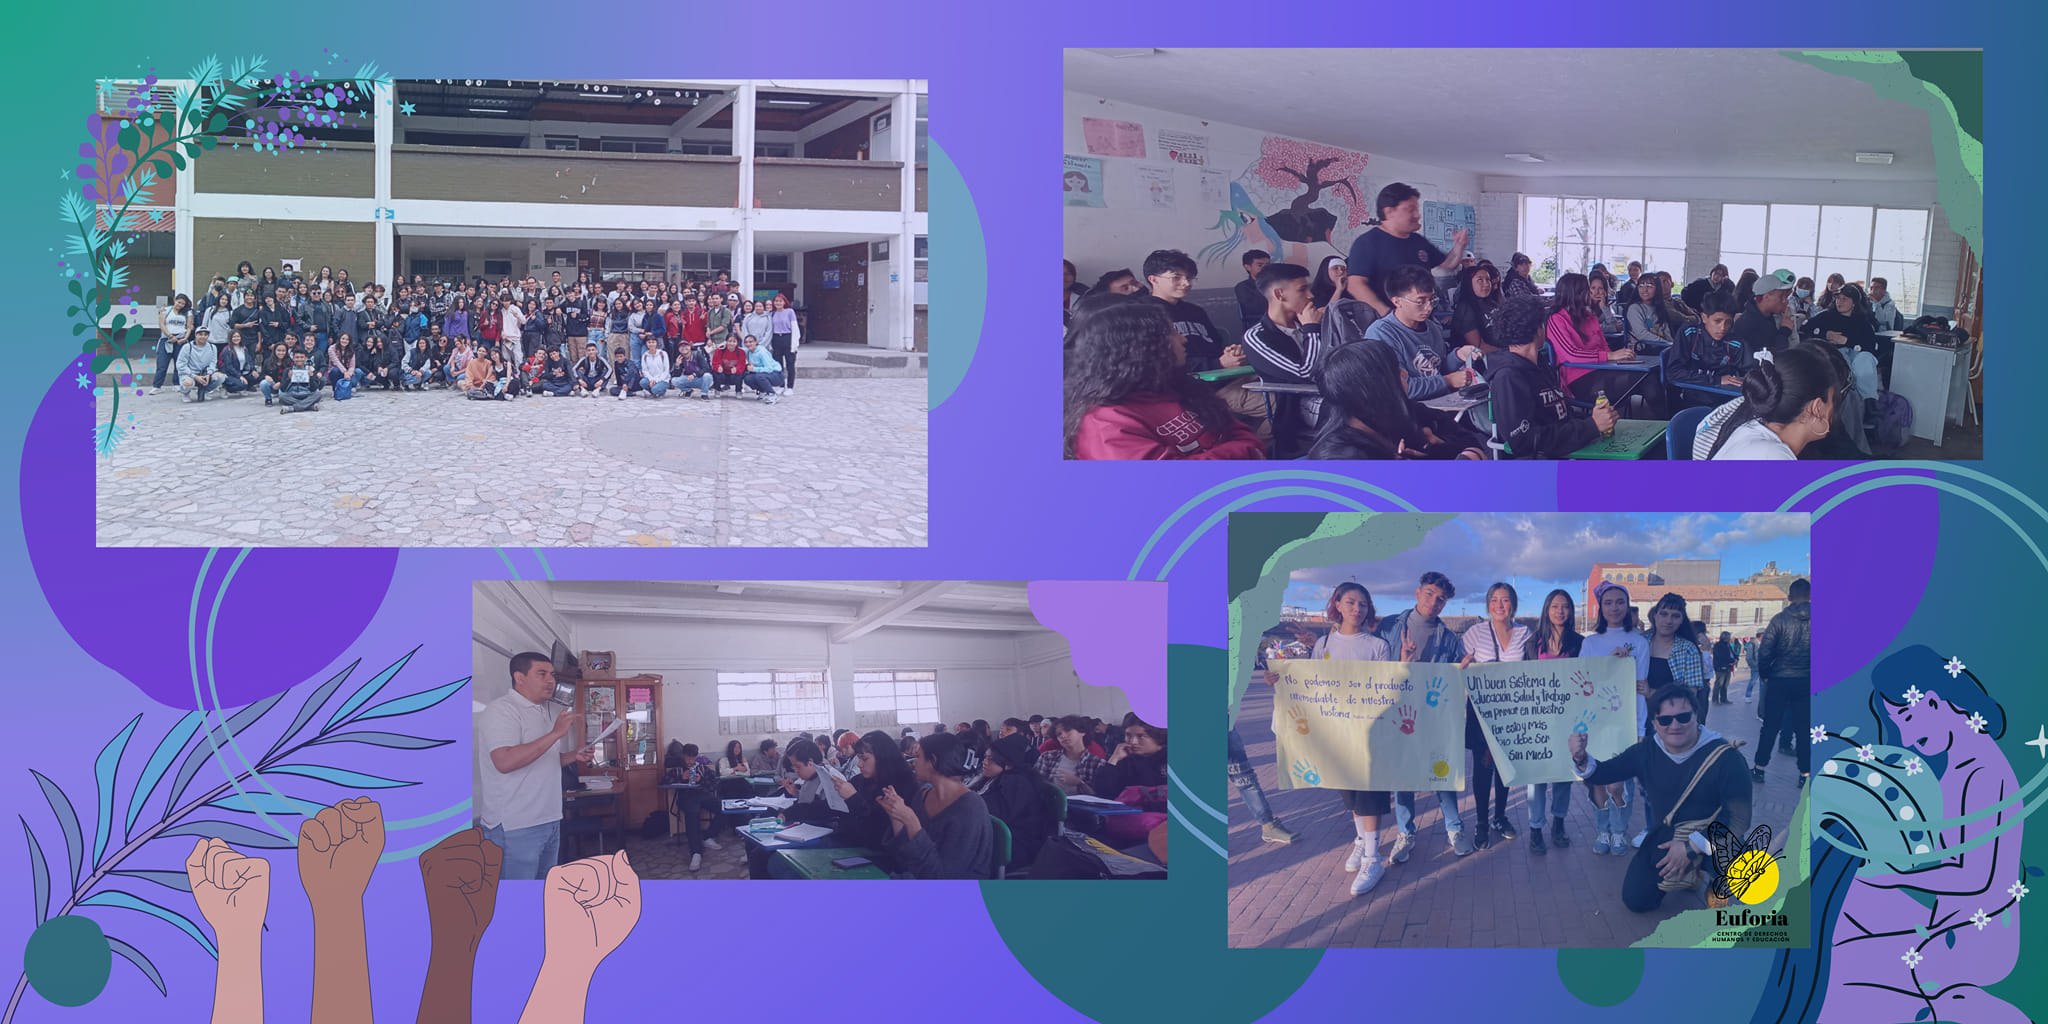
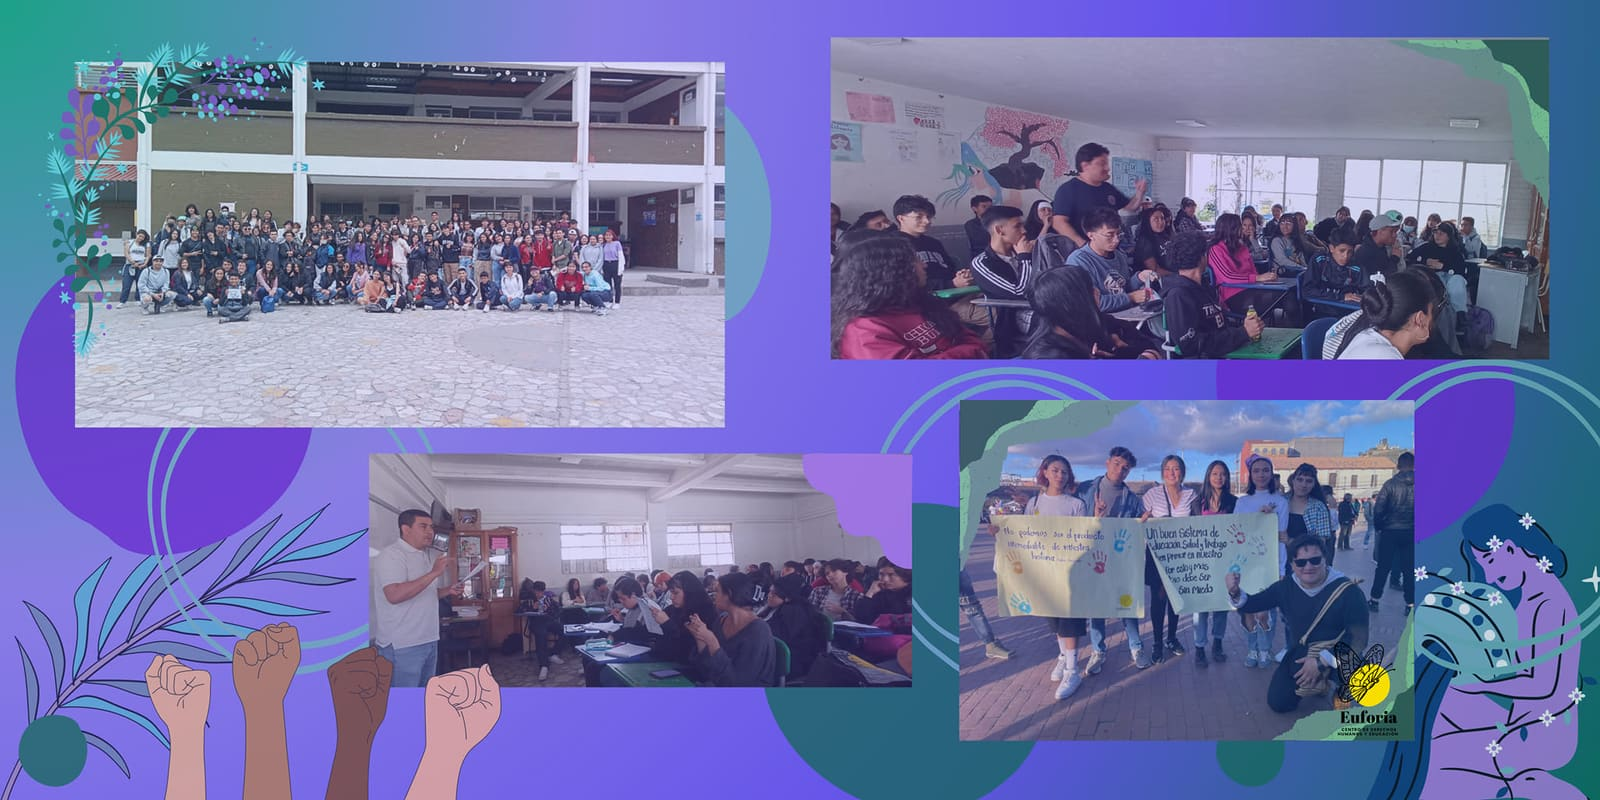
Optimize static assets and parallelize Home page data fetching
- Compressed/resized the site's actual in-use static images: Logo.png
  (2.42MB -> 18KB, was 1536x1024 for a 90px header logo), Fondo.jpg,
  Fondo 2.jpg, and the home hero image. These load on every page via
  the header/footer, so this cuts a large fixed cost site-wide.
- Home.jsx fetched announcements, activities, and resources with three
  sequential awaits; switched to Promise.all so the three requests
  fire in parallel instead of one after another.

diff --git a/frontend/src/pages/Home.jsx b/frontend/src/pages/Home.jsx
@@ -116,13 +116,13 @@ const Home = () => {
     try {
       console.log('📥 Cargando datos desde MongoDB...');
       
-      const anunciosResponse = await announcementsAPI.getAll();
+      const [anunciosResponse, actividadesResponse, recursosResponse] = await Promise.all([
+        announcementsAPI.getAll(),
+        activitiesAPI.getAll(),
+        resourcesAPI.getAll()
+      ]);
       const anuncios = anunciosResponse.data || [];
-      
-      const actividadesResponse = await activitiesAPI.getAll();
       const actividadesData = actividadesResponse.data || [];
-      
-      const recursosResponse = await resourcesAPI.getAll();
       const recursosData = recursosResponse.data || [];
       
       // A. ANUNCIOS PARA CARRUSEL
